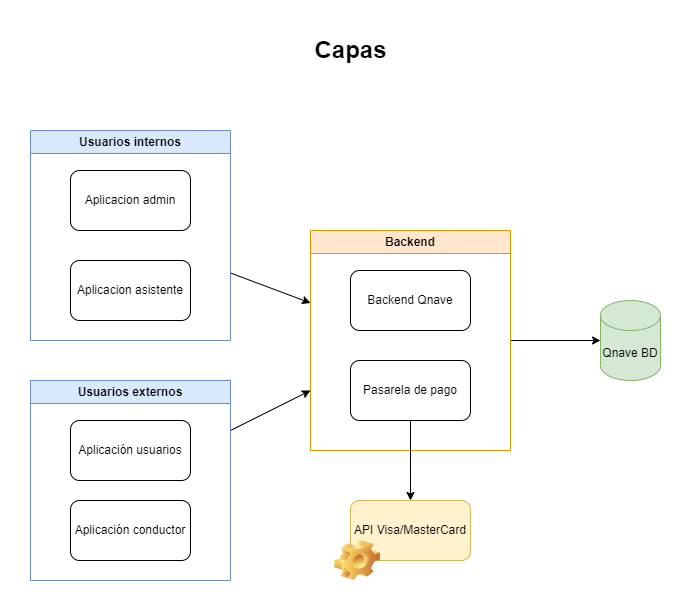
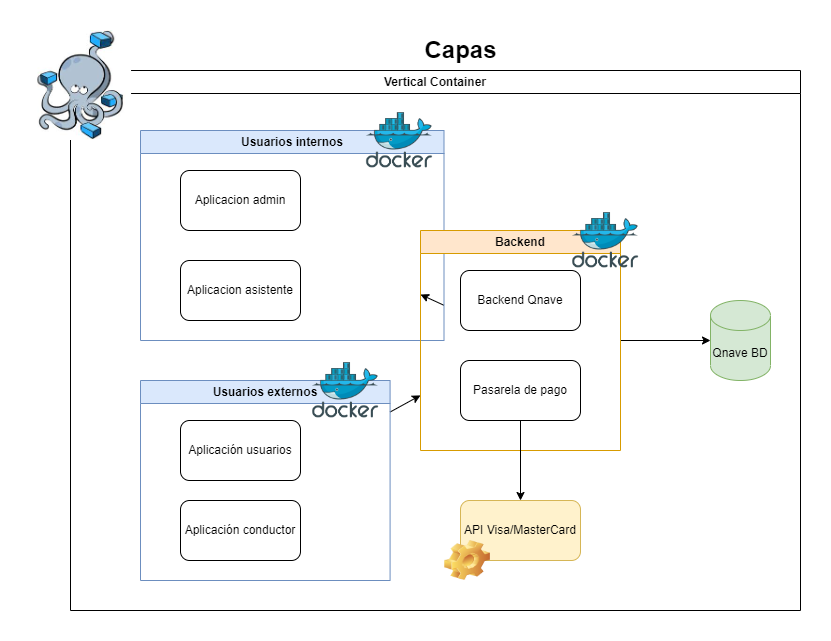
Detalle conductor, actualizacion diagramas

diff --git a/frontend/qnave/src/components/header_asistente/headerAsistente.js b/frontend/qnave/src/components/header_asistente/headerAsistente.js
@@ -3,6 +3,9 @@ import logo from "../../assets/logo/auto.png";
 import styles from "./headerAsistente.module.scss";
 
 function HeaderAsistente() {
+  const cleanStorage = () => {
+    localStorage.clear();
+  }
   return (
     <div>
       <nav className={"navbar navbar-expand-lg bg-body-tertiary mb-4"}>
@@ -36,6 +39,13 @@ function HeaderAsistente() {
               <li className="nav-item">
                 <Link className="nav-link active" to="/asistente/solicitudes">
                   <strong>Aceptar solicitudes</strong>
+                </Link>
+              </li>
+            </ul>
+            <ul className="navbar-nav ms-auto" onClick={cleanStorage}>
+              <li className="nav-item">
+                <Link className="nav-link active" to="/">
+                  <strong>Cerrar sesión</strong>
                 </Link>
               </li>
             </ul>

diff --git a/frontend/qnave/src/views/asistente/DetalleConductor.js b/frontend/qnave/src/views/asistente/DetalleConductor.js
@@ -15,7 +15,7 @@ const DetalleConductor = () => {
     useEffect(() => {
         const fetchConductor = async () => {
             try {
-                const response = await fetch(`http://localhost:8080/api/asistant/getDriverById/${id}`);
+                const response = await fetch(`http://34.173.74.193:5000/api/asistant/getDriverById/${id}`);
                 const data = await response.json();
                 if (!response.ok) {
                     if(data.message){

diff --git a/src/backend/controller/assistant.controller.js b/src/backend/controller/assistant.controller.js
@@ -237,8 +237,7 @@ export const obtenerConductoresBasicos = async (req, res) => {
                     U.CorreoElectronico,
                     C.NumeroPlaca                   
                 FROM Conductores C
-                INNER JOIN Usuarios U ON C.ConductorID = U.UsuarioID
-                WHERE C.Estatus = 'Activo';
+                INNER JOIN Usuarios U ON C.ConductorID = U.UsuarioID;
             `);
 
         if (conductores.recordset.length === 0) {

diff --git a/README.md b/README.md
@@ -222,6 +222,8 @@ Funcionalidades Clave:
   - **Uso Eficiente de Recursos:** Minimiza el uso de memoria al asegurar que solo exista una instancia.
 - **Utilidad en el Proyecto:** Se puede utilizar el patrón Singleton para la configuración global de la plataforma, como la autenticación del administrador y la gestión de reportes, asegurando que solo haya una instancia que controle estas operaciones críticas.
 
+![Diagrama Singleton](/diagramas/singleton.png)
+
 2. **Patrón Factory Method**
 
 **Descripción:** El patrón Factory Method define una interfaz para crear objetos, pero permite a las subclases decidir qué clase instanciar. Es útil cuando el tipo de objeto a crear no se conoce hasta el momento de ejecución.
@@ -230,6 +232,8 @@ Funcionalidades Clave:
   - **Flexibilidad:** Permite la creación de objetos sin especificar la clase exacta, facilitando la adición de nuevos tipos de usuarios o roles.
   - **Desacoplamiento:** Reduce el acoplamiento entre el código cliente y las clases concretas que se crean.
 - **Utilidad en el Proyecto:** Se puede usar este patrón para crear diferentes tipos de usuarios (Usuario, Conductor, Asistente) sin que el código de la aplicación tenga que conocer las clases específicas que se instancian.
+
+![Diagrama Singleton](/diagramas/factory.png)
 
 3. **Patrón Observer**
 
